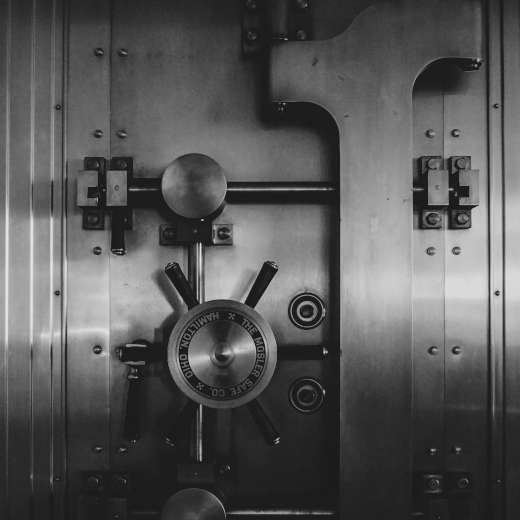
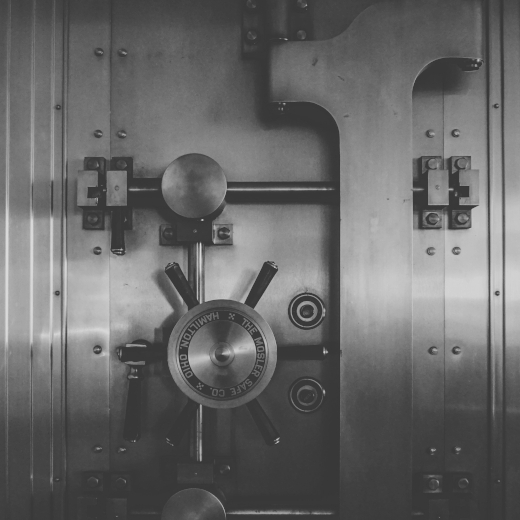
Edited the safe image to make the text more readable on index.html.

diff --git a/index.html b/index.html
@@ -28,12 +28,6 @@
                     <p>Digital security really is two different topics that must both be taken into account so that you can decide what fits the use case of you as an internet user and what you are most worried about.</p>
                     <p>The purpose of this website is to provide basic education on the two topics of security and privacy. Then we will explore the basic ways by which you can protect yourself while using the web.</p>
                 </section>
-                <section id="privacy">
-                    <h2>Privacy</h2>
-                    <p>Privacy can be thought of much like closing the blinds in your house. What you are doing inside there is not the business of those outside.</p>
-                    <p>When we refer to privacy in the digital world, we are referring to your ability to use the internet and remain private from other people who may be trying to see what you are doing.</p>
-                    <a href="privacy.html">Learn More</a>
-                </section>
                 <section id="security">
                     <h2>Security</h2>
                     <p>Security should be thought of like we do a safe. Security is knowing that our personal information is safe from the hands of bad actors that may want to steal from us.</p>
@@ -41,6 +35,13 @@
                     <p>We will learn how to protect ourselves from these bad actors by improving our security and awareness of their tactics.</p>
                     <a href="security.html">Learn More</a>
                 </section>
+                <section id="privacy">
+                    <h2>Privacy</h2>
+                    <p>Privacy can be thought of much like closing the blinds in your house. What you are doing inside there is not the business of those outside.</p>
+                    <p>When we refer to privacy in the digital world, we are referring to your ability to use the internet and remain private from other people who may be trying to see what you are doing.</p>
+                    <a href="privacy.html">Learn More</a>
+                </section>
+                
             </main>
             <footer>
                 Copyright &copy; 2023

diff --git a/styles.css b/styles.css
@@ -35,7 +35,7 @@ nav {
     font-weight: bold;
     letter-spacing: 0.05em;
     background-color: #DEDEDE;
-    font-size: 1.5em;
+    font-size: 1.25em;
     text-align: center;
     padding: 5px;
     top: 0;
@@ -48,7 +48,9 @@ nav ul {
 }
 
 nav li {
-    
+    border-bottom: 1px solid #132D46;
+    padding-top: .5em;
+    padding-bottom: .5em;
 }
 
 nav a {
@@ -81,6 +83,7 @@ h2 {
     height: 520px;
     background-image: url(images/camera.jpg);
     background-repeat: no-repeat;
+    margin: auto;
 }
 
 #privacy, #privacy h2, #security, #security h2 {
@@ -95,6 +98,7 @@ h2 {
     height: 520px;
     background-image: url(images/safe.jpg);
     background-repeat: no-repeat;
+    margin: auto;
 }
 
 #security p {
